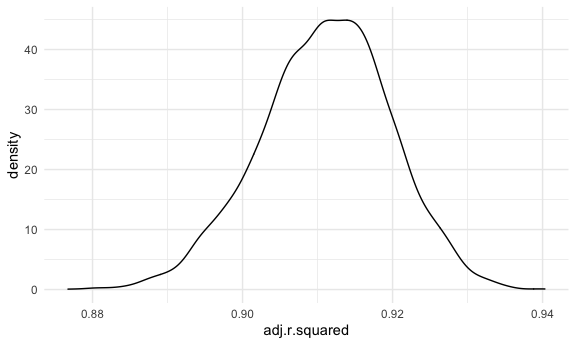
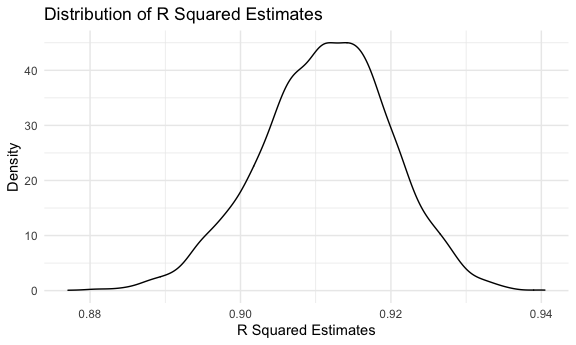
added comments

diff --git a/p8105_hw6_ly2565.md b/p8105_hw6_ly2565.md
@@ -361,6 +361,8 @@ weather_df
     ## 10 CentralPark_NY USW00094728 2017-01-10     0   7.8  -6  
     ## # … with 355 more rows
 
+### Bootstrapping
+
 Draw 5000 bootstrap samples.
 
 ``` r
@@ -386,6 +388,9 @@ boot_strap_df
     ## 10 <resample [365 x 6]> 0010 
     ## # … with 4,990 more rows
 
+Produce an estimate of r squared for each bootstrap group and plot the
+distribution of estimates.
+
 ``` r
 r_squared_results = 
   boot_strap_df %>% 
@@ -395,12 +400,39 @@ r_squared_results =
   select(-strap, -models) %>% 
   unnest(results)
 
+r_squared_results
+```
+
+    ## # A tibble: 5,000 × 13
+    ##    .id   r.squared adj.r.squared sigma statistic   p.value    df logLik   AIC
+    ##    <chr>     <dbl>         <dbl> <dbl>     <dbl>     <dbl> <dbl>  <dbl> <dbl>
+    ##  1 0001      0.898         0.897  3.08     3185. 8.83e-182     1  -928. 1861.
+    ##  2 0002      0.913         0.913  2.93     3833. 5.33e-195     1  -910. 1825.
+    ##  3 0003      0.902         0.901  2.99     3332. 5.64e-185     1  -917. 1840.
+    ##  4 0004      0.904         0.904  3.08     3410. 1.23e-186     1  -928. 1862.
+    ##  5 0005      0.920         0.920  2.82     4188. 2.07e-201     1  -896. 1798.
+    ##  6 0006      0.904         0.903  3.03     3403. 1.79e-186     1  -921. 1849.
+    ##  7 0007      0.917         0.917  2.89     4023. 1.68e-198     1  -905. 1816.
+    ##  8 0008      0.919         0.919  2.84     4125. 2.65e-200     1  -899. 1803.
+    ##  9 0009      0.915         0.915  2.90     3928. 8.83e-197     1  -905. 1816.
+    ## 10 0010      0.906         0.906  2.96     3508. 1.20e-188     1  -913. 1832.
+    ## # … with 4,990 more rows, and 4 more variables: BIC <dbl>, deviance <dbl>,
+    ## #   df.residual <int>, nobs <int>
+
+``` r
 r_squared_results %>% 
-  ggplot(aes(x = adj.r.squared)) +
-  geom_density()
+  ggplot(aes(x = r.squared)) +
+  geom_density() +
+  labs(
+    x = "R Squared Estimates", 
+    y = "Density",
+    title = "Distribution of R Squared Estimates"
+  )
 ```
 
 <img src="p8105_hw6_ly2565_files/figure-gfm/unnamed-chunk-10-1.png" width="90%" />
+
+Calculate 95% confidence interval for adjusted r squared.
 
 ``` r
 r_squared_results %>% 
@@ -414,6 +446,9 @@ r_squared_results %>%
 |----------:|----------:|
 | 0.8936977 | 0.9274807 |
 
+Produce an estimate of log(beta0 \* beta1) for each bootstrap group and
+plot the distribution of estimates.
+
 ``` r
 log_results = 
   boot_strap_df %>% 
@@ -421,22 +456,56 @@ log_results =
     models = map(strap, ~lm(tmax ~ tmin, data = .x)),
     results = map(models, broom::tidy)) %>%
   select(-strap, -models) %>% 
-  unnest(results)
-
-beta_0 = 
-  log_results %>% 
-  filter(term == "(Intercept)") %>% 
-  rename(beta_0_est = estimate)
-
-beta_1 = 
-  log_results %>% 
-  filter(term == "tmin") %>% 
-  rename(beta_1_est = estimate)
-
-df = 
-  left_join(beta_0, beta_1, by = ".id") %>% 
-  select(.id, beta_0_est, beta_1_est) %>% 
-  mutate(log = log(beta_0_est * beta_1_est)) %>% 
-  ggplot(aes(x = log)) +
-  geom_density()
+  unnest(results) %>% 
+  select(.id, term, estimate) %>% 
+  pivot_wider(
+    names_from = "term",
+    values_from = "estimate") %>% 
+  rename(
+    beta0 = `(Intercept)`, 
+    beta1 = tmin) %>% 
+  mutate(log_beta0_beta1 = log(beta0 * beta1)) 
+ 
+log_results
 ```
+
+    ## # A tibble: 5,000 × 4
+    ##    .id   beta0 beta1 log_beta0_beta1
+    ##    <chr> <dbl> <dbl>           <dbl>
+    ##  1 0001   7.54  1.02            2.04
+    ##  2 0002   6.86  1.06            1.99
+    ##  3 0003   7.55  1.02            2.04
+    ##  4 0004   7.24  1.03            2.01
+    ##  5 0005   6.89  1.06            1.99
+    ##  6 0006   7.15  1.06            2.02
+    ##  7 0007   7.20  1.04            2.02
+    ##  8 0008   7.26  1.04            2.02
+    ##  9 0009   7.19  1.05            2.03
+    ## 10 0010   7.34  1.04            2.03
+    ## # … with 4,990 more rows
+
+``` r
+log_results %>% 
+  ggplot(aes(x = log_beta0_beta1)) +
+  geom_density() +
+  labs(
+    x = "Log(beta0 * beta1) Estimates",
+    y = "Density",
+    title = "Distribution of Estimates of log(beta0 * beta1)")
+```
+
+<img src="p8105_hw6_ly2565_files/figure-gfm/unnamed-chunk-12-1.png" width="90%" />
+
+Calculate 95% confidence interval for log(beta0 \* beta1).
+
+``` r
+log_results %>% 
+  summarize(
+    ci_lower = quantile(log_beta0_beta1, 0.025),
+    ci_upper = quantile(log_beta0_beta1, 0.975)) %>% 
+  knitr::kable()
+```
+
+| ci\_lower | ci\_upper |
+|----------:|----------:|
+|  1.966942 |  2.058528 |
